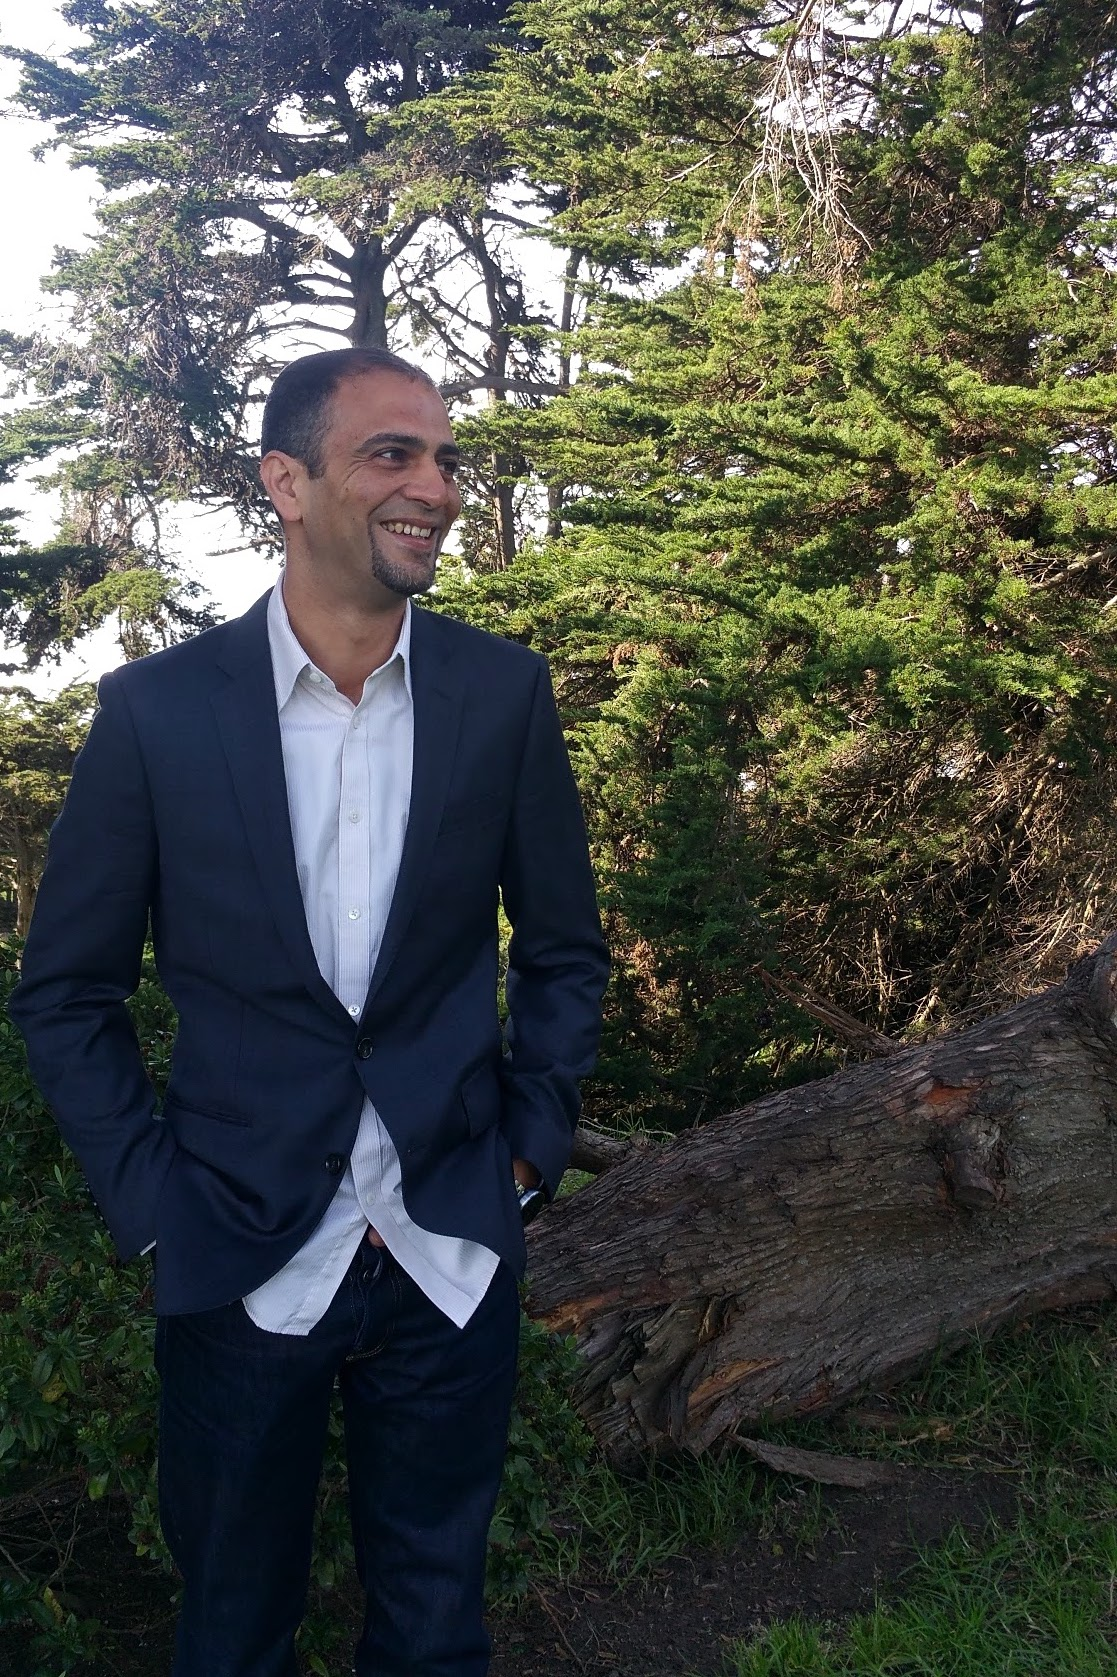
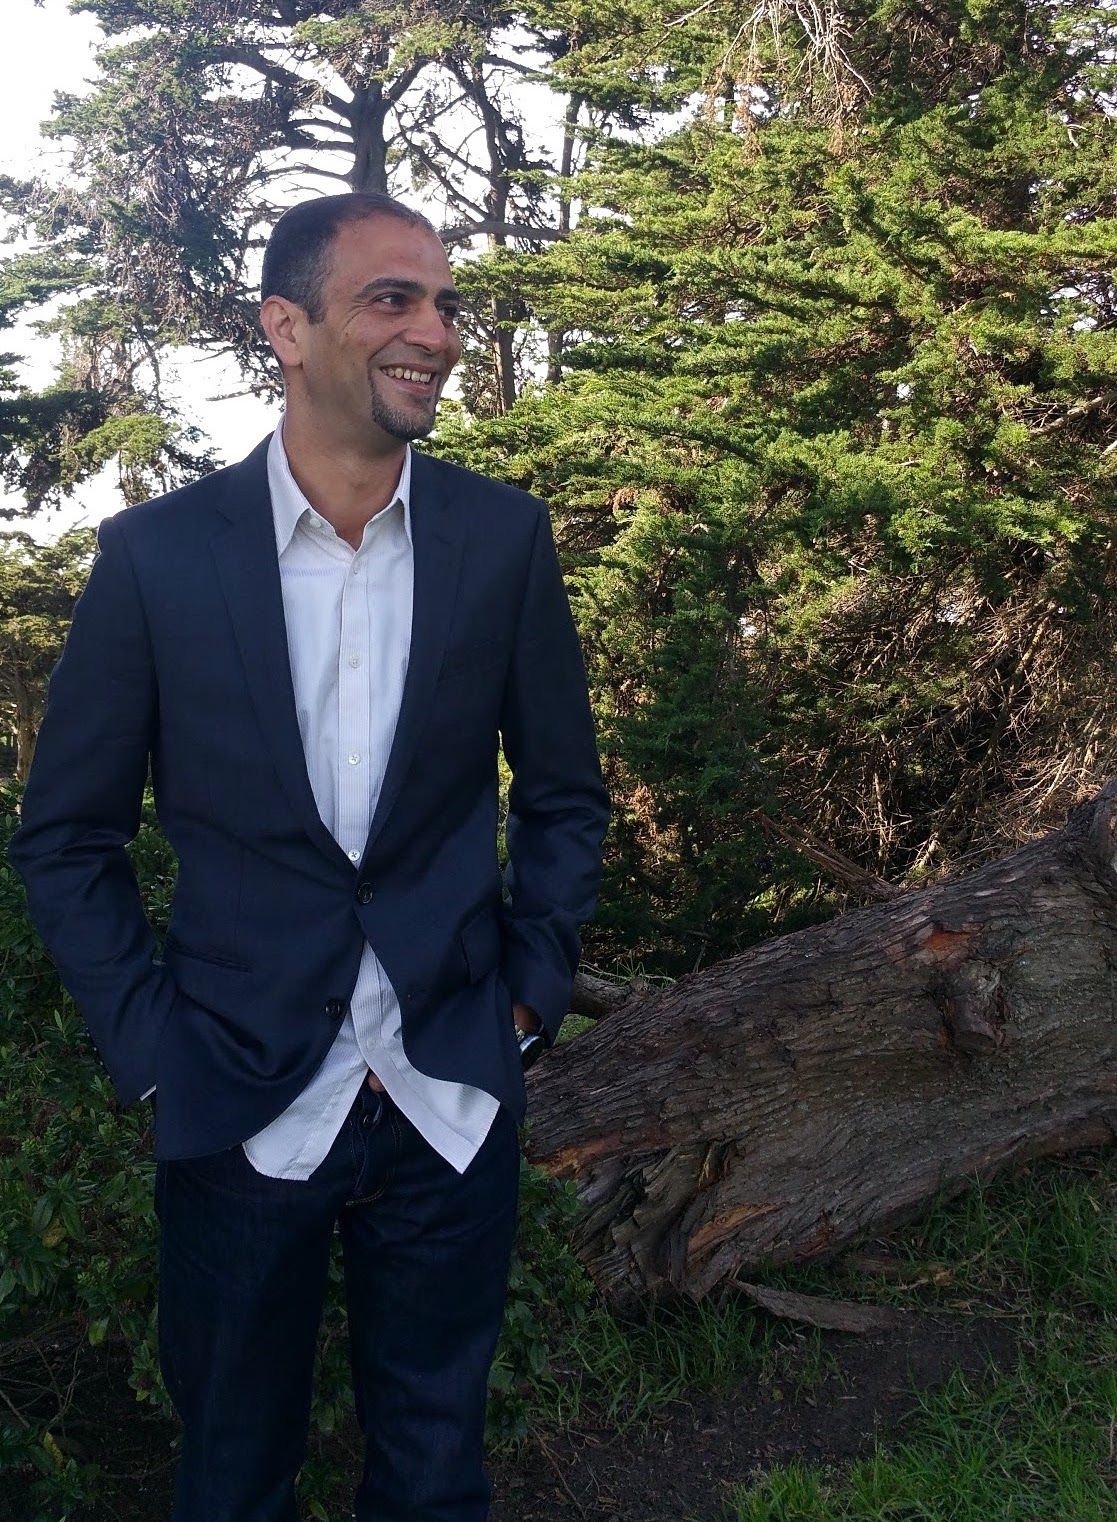
Updates

diff --git a/index.html b/index.html
@@ -1,1 +1,1 @@
-<!doctype html><html lang="en"><head><meta charset="utf-8"/><title>Shady Alzayat</title><base href="/"/><meta name="viewport" content="viewport-fit=cover,width=device-width,initial-scale=1,minimum-scale=1,maximum-scale=1,user-scalable=no"/><meta name="format-detection" content="telephone=no"/><meta name="msapplication-tap-highlight" content="no"/><link rel="shortcut icon" href="/shadyalzayat.github.io/favicon.ico"/><meta name="apple-mobile-web-app-capable" content="yes"/><meta name="apple-mobile-web-app-title" content="Shady Alzayat"/><meta name="apple-mobile-web-app-status-bar-style" content="black"/><link href="/shadyalzayat.github.io/static/css/10.94ec965d.chunk.css" rel="stylesheet"><link href="/shadyalzayat.github.io/static/css/main.d17296f7.chunk.css" rel="stylesheet"></head><body><div id="root"></div><script>!function(b){function e(e){for(var a,r,t=e[0],c=e[1],f=e[2],n=0,o=[];n<t.length;n++)r=t[n],Object.prototype.hasOwnProperty.call(u,r)&&u[r]&&o.push(u[r][0]),u[r]=0;for(a in c)Object.prototype.hasOwnProperty.call(c,a)&&(b[a]=c[a]);for(p&&p(e);o.length;)o.shift()();return i.push.apply(i,f||[]),d()}function d(){for(var e,a=0;a<i.length;a++){for(var r=i[a],t=!0,c=1;c<r.length;c++){var f=r[c];0!==u[f]&&(t=!1)}t&&(i.splice(a--,1),e=l(l.s=r[0]))}return e}var r={},u={9:0},i=[];function l(e){if(r[e])return r[e].exports;var a=r[e]={i:e,l:!1,exports:{}};return b[e].call(a.exports,a,a.exports,l),a.l=!0,a.exports}l.e=function(c){var e=[],r=u[c];if(0!==r)if(r)e.push(r[2]);else{var a=new Promise(function(e,a){r=u[c]=[e,a]});e.push(r[2]=a);var t,f=document.createElement("script");f.charset="utf-8",f.timeout=120,l.nc&&f.setAttribute("nonce",l.nc),f.src=l.p+"static/js/"+({}[c]||c)+"."+{0:"d0797bfd",1:"731ddf0c",2:"1992947a",3:"8f565a24",4:"ab162de4",5:"dea9addc",6:"604c3f15",7:"7b5c2906",11:"803ec2c1",12:"c56788b2",13:"a6edce26",14:"62b14dfb",15:"b4b1c910",16:"e07f5ef8",17:"9795ca49",18:"e6f82240",19:"b5cf133d",20:"0f04c303",21:"dea54d3a",22:"f22364a4",23:"4eb4e794",24:"27b7f68f",25:"618543f4",26:"892bae84",27:"6225a5be",28:"accfb855",29:"d0d5e1fa",30:"eff2f1f8",31:"592dc329",32:"fd30c7d7",33:"eb1c2ba2",34:"dc190620",35:"66b19598",36:"ac8ce7b7",37:"77b5e9bb",38:"d608236b",39:"4a8a0485",40:"383cd838",41:"e93b23ec",42:"20c8ead8",43:"81d41a54",44:"fb6aa9be",45:"1f89120e",46:"ecf2f8c1",47:"abbebaa2",48:"00e1aa85",49:"87f5a9b7",50:"4991366f",51:"079e5034",52:"2f58f787",53:"7a46d970",54:"a35b1893",55:"81d2346a",56:"3a2dbec5",57:"fab8eb7a",58:"ee82d93b",59:"fa782e2e",60:"28d8987f",61:"0ecbafa3",62:"63cb0565",63:"bdbe7ba5",64:"4c7f1f8f",65:"c27022e9",66:"5e9b3231",67:"a0452c0a",68:"6cf4c722",69:"0be49781",70:"49c5b5cb",71:"54666330",72:"291a4dbd",73:"76104f61",74:"cd203e27",75:"7b8d2ff8",76:"4f811263",77:"b3f96431",78:"f5093773",79:"85aa547b",80:"0c018761",81:"f10aaf17",82:"bb2d13af",83:"82c575ee",84:"9ff25e4f",85:"c5bbacb7",86:"84ecc293",87:"2e5134ae",88:"c550ea57",89:"36942c66",90:"f89a78c2",91:"2fb931ea",92:"cc802ac7",93:"2b48af34",94:"29652e9c",95:"43334400",96:"afd37759",97:"ced31a8e",98:"84e3f420",99:"444d6b28",100:"8d279afc"}[c]+".chunk.js";var n=new Error;t=function(e){f.onerror=f.onload=null,clearTimeout(o);var a=u[c];if(0!==a){if(a){var r=e&&("load"===e.type?"missing":e.type),t=e&&e.target&&e.target.src;n.message="Loading chunk "+c+" failed.\n("+r+": "+t+")",n.name="ChunkLoadError",n.type=r,n.request=t,a[1](n)}u[c]=void 0}};var o=setTimeout(function(){t({type:"timeout",target:f})},12e4);f.onerror=f.onload=t,document.head.appendChild(f)}return Promise.all(e)},l.m=b,l.c=r,l.d=function(e,a,r){l.o(e,a)||Object.defineProperty(e,a,{enumerable:!0,get:r})},l.r=function(e){"undefined"!=typeof Symbol&&Symbol.toStringTag&&Object.defineProperty(e,Symbol.toStringTag,{value:"Module"}),Object.defineProperty(e,"__esModule",{value:!0})},l.t=function(a,e){if(1&e&&(a=l(a)),8&e)return a;if(4&e&&"object"==typeof a&&a&&a.__esModule)return a;var r=Object.create(null);if(l.r(r),Object.defineProperty(r,"default",{enumerable:!0,value:a}),2&e&&"string"!=typeof a)for(var t in a)l.d(r,t,function(e){return a[e]}.bind(null,t));return r},l.n=function(e){var a=e&&e.__esModule?function(){return e.default}:function(){return e};return l.d(a,"a",a),a},l.o=function(e,a){return Object.prototype.hasOwnProperty.call(e,a)},l.p="/shadyalzayat.github.io/",l.oe=function(e){throw console.error(e),e};var a=window.webpackJsonpportfolio=window.webpackJsonpportfolio||[],t=a.push.bind(a);a.push=e,a=a.slice();for(var c=0;c<a.length;c++)e(a[c]);var p=t;d()}([])</script><script src="/shadyalzayat.github.io/static/js/10.86bf4cf2.chunk.js"></script><script src="/shadyalzayat.github.io/static/js/main.31795b49.chunk.js"></script></body></html>
+<!doctype html><html lang="en"><head><meta charset="utf-8"/><title>Shady Alzayat</title><base href="/"/><meta name="viewport" content="viewport-fit=cover,width=device-width,initial-scale=1,minimum-scale=1,maximum-scale=1,user-scalable=no"/><meta name="format-detection" content="telephone=no"/><meta name="msapplication-tap-highlight" content="no"/><link rel="shortcut icon" href="/shadyalzayat.github.io/favicon.ico"/><meta name="apple-mobile-web-app-capable" content="yes"/><meta name="apple-mobile-web-app-title" content="Shady Alzayat"/><meta name="apple-mobile-web-app-status-bar-style" content="black"/><link href="/shadyalzayat.github.io/static/css/10.94ec965d.chunk.css" rel="stylesheet"><link href="/shadyalzayat.github.io/static/css/main.fa17fabf.chunk.css" rel="stylesheet"></head><body><div id="root"></div><script>!function(b){function e(e){for(var a,r,t=e[0],c=e[1],f=e[2],n=0,o=[];n<t.length;n++)r=t[n],Object.prototype.hasOwnProperty.call(u,r)&&u[r]&&o.push(u[r][0]),u[r]=0;for(a in c)Object.prototype.hasOwnProperty.call(c,a)&&(b[a]=c[a]);for(p&&p(e);o.length;)o.shift()();return i.push.apply(i,f||[]),d()}function d(){for(var e,a=0;a<i.length;a++){for(var r=i[a],t=!0,c=1;c<r.length;c++){var f=r[c];0!==u[f]&&(t=!1)}t&&(i.splice(a--,1),e=l(l.s=r[0]))}return e}var r={},u={9:0},i=[];function l(e){if(r[e])return r[e].exports;var a=r[e]={i:e,l:!1,exports:{}};return b[e].call(a.exports,a,a.exports,l),a.l=!0,a.exports}l.e=function(c){var e=[],r=u[c];if(0!==r)if(r)e.push(r[2]);else{var a=new Promise(function(e,a){r=u[c]=[e,a]});e.push(r[2]=a);var t,f=document.createElement("script");f.charset="utf-8",f.timeout=120,l.nc&&f.setAttribute("nonce",l.nc),f.src=l.p+"static/js/"+({}[c]||c)+"."+{0:"d0797bfd",1:"731ddf0c",2:"1992947a",3:"8f565a24",4:"ab162de4",5:"dea9addc",6:"604c3f15",7:"7b5c2906",11:"803ec2c1",12:"c56788b2",13:"a6edce26",14:"62b14dfb",15:"b4b1c910",16:"e07f5ef8",17:"9795ca49",18:"e6f82240",19:"b5cf133d",20:"0f04c303",21:"dea54d3a",22:"f22364a4",23:"4eb4e794",24:"27b7f68f",25:"618543f4",26:"892bae84",27:"6225a5be",28:"accfb855",29:"d0d5e1fa",30:"eff2f1f8",31:"592dc329",32:"fd30c7d7",33:"eb1c2ba2",34:"dc190620",35:"66b19598",36:"ac8ce7b7",37:"77b5e9bb",38:"d608236b",39:"4a8a0485",40:"383cd838",41:"e93b23ec",42:"20c8ead8",43:"81d41a54",44:"fb6aa9be",45:"1f89120e",46:"ecf2f8c1",47:"abbebaa2",48:"00e1aa85",49:"87f5a9b7",50:"4991366f",51:"079e5034",52:"2f58f787",53:"7a46d970",54:"a35b1893",55:"81d2346a",56:"3a2dbec5",57:"fab8eb7a",58:"ee82d93b",59:"fa782e2e",60:"28d8987f",61:"0ecbafa3",62:"63cb0565",63:"bdbe7ba5",64:"4c7f1f8f",65:"c27022e9",66:"5e9b3231",67:"a0452c0a",68:"6cf4c722",69:"0be49781",70:"49c5b5cb",71:"54666330",72:"291a4dbd",73:"76104f61",74:"cd203e27",75:"7b8d2ff8",76:"4f811263",77:"b3f96431",78:"f5093773",79:"85aa547b",80:"0c018761",81:"f10aaf17",82:"bb2d13af",83:"82c575ee",84:"9ff25e4f",85:"c5bbacb7",86:"84ecc293",87:"2e5134ae",88:"c550ea57",89:"36942c66",90:"f89a78c2",91:"2fb931ea",92:"cc802ac7",93:"2b48af34",94:"29652e9c",95:"43334400",96:"afd37759",97:"ced31a8e",98:"84e3f420",99:"444d6b28",100:"8d279afc"}[c]+".chunk.js";var n=new Error;t=function(e){f.onerror=f.onload=null,clearTimeout(o);var a=u[c];if(0!==a){if(a){var r=e&&("load"===e.type?"missing":e.type),t=e&&e.target&&e.target.src;n.message="Loading chunk "+c+" failed.\n("+r+": "+t+")",n.name="ChunkLoadError",n.type=r,n.request=t,a[1](n)}u[c]=void 0}};var o=setTimeout(function(){t({type:"timeout",target:f})},12e4);f.onerror=f.onload=t,document.head.appendChild(f)}return Promise.all(e)},l.m=b,l.c=r,l.d=function(e,a,r){l.o(e,a)||Object.defineProperty(e,a,{enumerable:!0,get:r})},l.r=function(e){"undefined"!=typeof Symbol&&Symbol.toStringTag&&Object.defineProperty(e,Symbol.toStringTag,{value:"Module"}),Object.defineProperty(e,"__esModule",{value:!0})},l.t=function(a,e){if(1&e&&(a=l(a)),8&e)return a;if(4&e&&"object"==typeof a&&a&&a.__esModule)return a;var r=Object.create(null);if(l.r(r),Object.defineProperty(r,"default",{enumerable:!0,value:a}),2&e&&"string"!=typeof a)for(var t in a)l.d(r,t,function(e){return a[e]}.bind(null,t));return r},l.n=function(e){var a=e&&e.__esModule?function(){return e.default}:function(){return e};return l.d(a,"a",a),a},l.o=function(e,a){return Object.prototype.hasOwnProperty.call(e,a)},l.p="/shadyalzayat.github.io/",l.oe=function(e){throw console.error(e),e};var a=window.webpackJsonpportfolio=window.webpackJsonpportfolio||[],t=a.push.bind(a);a.push=e,a=a.slice();for(var c=0;c<a.length;c++)e(a[c]);var p=t;d()}([])</script><script src="/shadyalzayat.github.io/static/js/10.86bf4cf2.chunk.js"></script><script src="/shadyalzayat.github.io/static/js/main.31795b49.chunk.js"></script></body></html>

diff --git a/static/css/main.fa17fabf.chunk.css b/static/css/main.fa17fabf.chunk.css
@@ -1,0 +1,2 @@
+.profile-photo{padding:.5em;width:20vh;height:20vh;margin:auto}.split-pane-visible>.split-pane-side{min-width:200px!important;max-width:200px!important}.welcome-card img{max-height:35vh;overflow:hidden}.intro-slides{height:94vh;background-repeat:no-repeat;background-size:cover}.intro-slides-text{font-size:1.2em;font-family:Playfair Display,Georgia,serif;color:#000;font-style:italic}.intro-slides-text-box{padding:.2em;margin-left:60vw;margin-right:10vw;background-color:#fff;opacity:.8}:root{--ion-font-family:"Roboto",sans-serif;--ion-color-primary:#3880ff;--ion-color-primary-rgb:56,128,255;--ion-color-primary-contrast:#fff;--ion-color-primary-contrast-rgb:255,255,255;--ion-color-primary-shade:#3171e0;--ion-color-primary-tint:#4c8dff;--ion-color-secondary:#0cd1e8;--ion-color-secondary-rgb:12,209,232;--ion-color-secondary-contrast:#fff;--ion-color-secondary-contrast-rgb:255,255,255;--ion-color-secondary-shade:#0bb8cc;--ion-color-secondary-tint:#24d6ea;--ion-color-tertiary:#7044ff;--ion-color-tertiary-rgb:112,68,255;--ion-color-tertiary-contrast:#fff;--ion-color-tertiary-contrast-rgb:255,255,255;--ion-color-tertiary-shade:#633ce0;--ion-color-tertiary-tint:#7e57ff;--ion-color-success:#10dc60;--ion-color-success-rgb:16,220,96;--ion-color-success-contrast:#fff;--ion-color-success-contrast-rgb:255,255,255;--ion-color-success-shade:#0ec254;--ion-color-success-tint:#28e070;--ion-color-warning:#ffce00;--ion-color-warning-rgb:255,206,0;--ion-color-warning-contrast:#fff;--ion-color-warning-contrast-rgb:255,255,255;--ion-color-warning-shade:#e0b500;--ion-color-warning-tint:#ffd31a;--ion-color-danger:#f04141;--ion-color-danger-rgb:245,61,61;--ion-color-danger-contrast:#fff;--ion-color-danger-contrast-rgb:255,255,255;--ion-color-danger-shade:#d33939;--ion-color-danger-tint:#f25454;--ion-color-dark:#222428;--ion-color-dark-rgb:34,34,34;--ion-color-dark-contrast:#fff;--ion-color-dark-contrast-rgb:255,255,255;--ion-color-dark-shade:#1e2023;--ion-color-dark-tint:#383a3e;--ion-color-medium:#989aa2;--ion-color-medium-rgb:152,154,162;--ion-color-medium-contrast:#fff;--ion-color-medium-contrast-rgb:255,255,255;--ion-color-medium-shade:#86888f;--ion-color-medium-tint:#a2a4ab;--ion-color-light:#f4f5f8;--ion-color-light-rgb:244,244,244;--ion-color-light-contrast:#000;--ion-color-light-contrast-rgb:0,0,0;--ion-color-light-shade:#d7d8da;--ion-color-light-tint:#f5f6f9}
+/*# sourceMappingURL=main.fa17fabf.chunk.css.map */

diff --git a/precache-manifest.cfe0fb2ce6784102e709454d5c5c2737.js b/precache-manifest.cfe0fb2ce6784102e709454d5c5c2737.js
@@ -1,6 +1,6 @@
 self.__precacheManifest = (self.__precacheManifest || []).concat([
   {
-    "revision": "0fc5281dec767b095ba435728789e318",
+    "revision": "96d5525efd88850b4b769750582d0aa2",
     "url": "/shadyalzayat.github.io/index.html"
   },
   {
@@ -8,8 +8,8 @@ self.__precacheManifest = (self.__precacheManifest || []).concat([
     "url": "/shadyalzayat.github.io/static/css/10.94ec965d.chunk.css"
   },
   {
-    "revision": "c7d0a96bf8b2a5ff1f51",
-    "url": "/shadyalzayat.github.io/static/css/main.d17296f7.chunk.css"
+    "revision": "d8bca8c5a76537225ac2",
+    "url": "/shadyalzayat.github.io/static/css/main.fa17fabf.chunk.css"
   },
   {
     "revision": "47d7e79f2ad4b61e4ad6",
@@ -408,7 +408,7 @@ self.__precacheManifest = (self.__precacheManifest || []).concat([
     "url": "/shadyalzayat.github.io/static/js/99.444d6b28.chunk.js"
   },
   {
-    "revision": "c7d0a96bf8b2a5ff1f51",
+    "revision": "d8bca8c5a76537225ac2",
     "url": "/shadyalzayat.github.io/static/js/main.31795b49.chunk.js"
   },
   {

diff --git a/service-worker.js b/service-worker.js
@@ -14,7 +14,7 @@
 importScripts("https://storage.googleapis.com/workbox-cdn/releases/4.3.1/workbox-sw.js");
 
 importScripts(
-  "/shadyalzayat.github.io/precache-manifest.705ebd265188d0d4abe6edf1db7ec352.js"
+  "/shadyalzayat.github.io/precache-manifest.cfe0fb2ce6784102e709454d5c5c2737.js"
 );
 
 self.addEventListener('message', (event) => {
